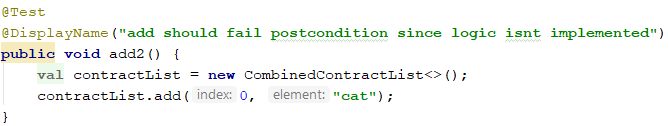
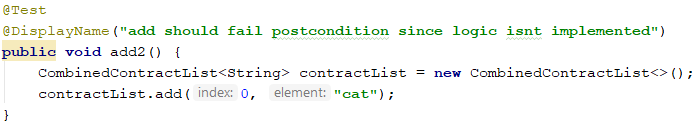
* Updating images in readme, to remove 'val' keyword

diff --git a/README.md b/README.md
@@ -28,7 +28,7 @@ and postconditions using the `@Ensures` annotation.
 
 If the user passes in a bad index.
 
-![alt text](img/add_both_contracts_precondition_violated_code.png "Alt text!")
+![alt text](img/add_both_contracts_precondition_violated_code.pnG "Alt text!")
 
 The precondition will be violated and Cofoja will print the following error.
 
